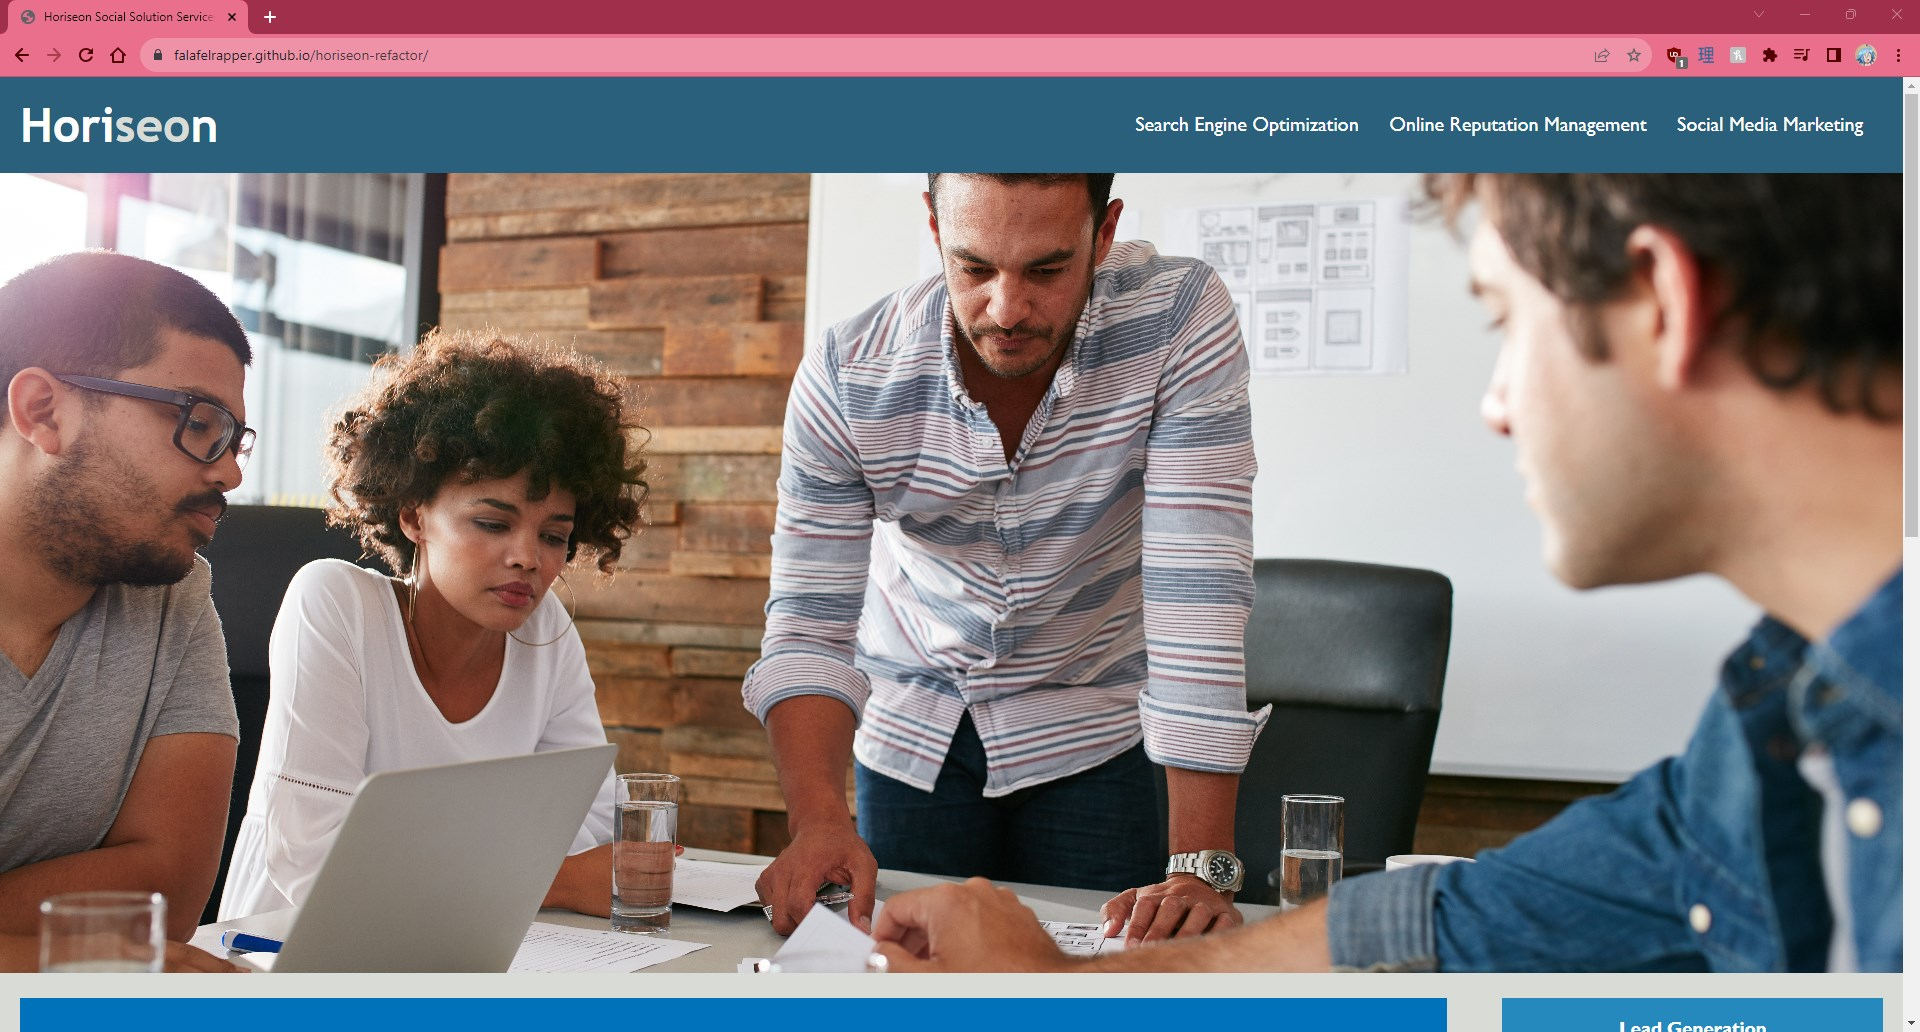
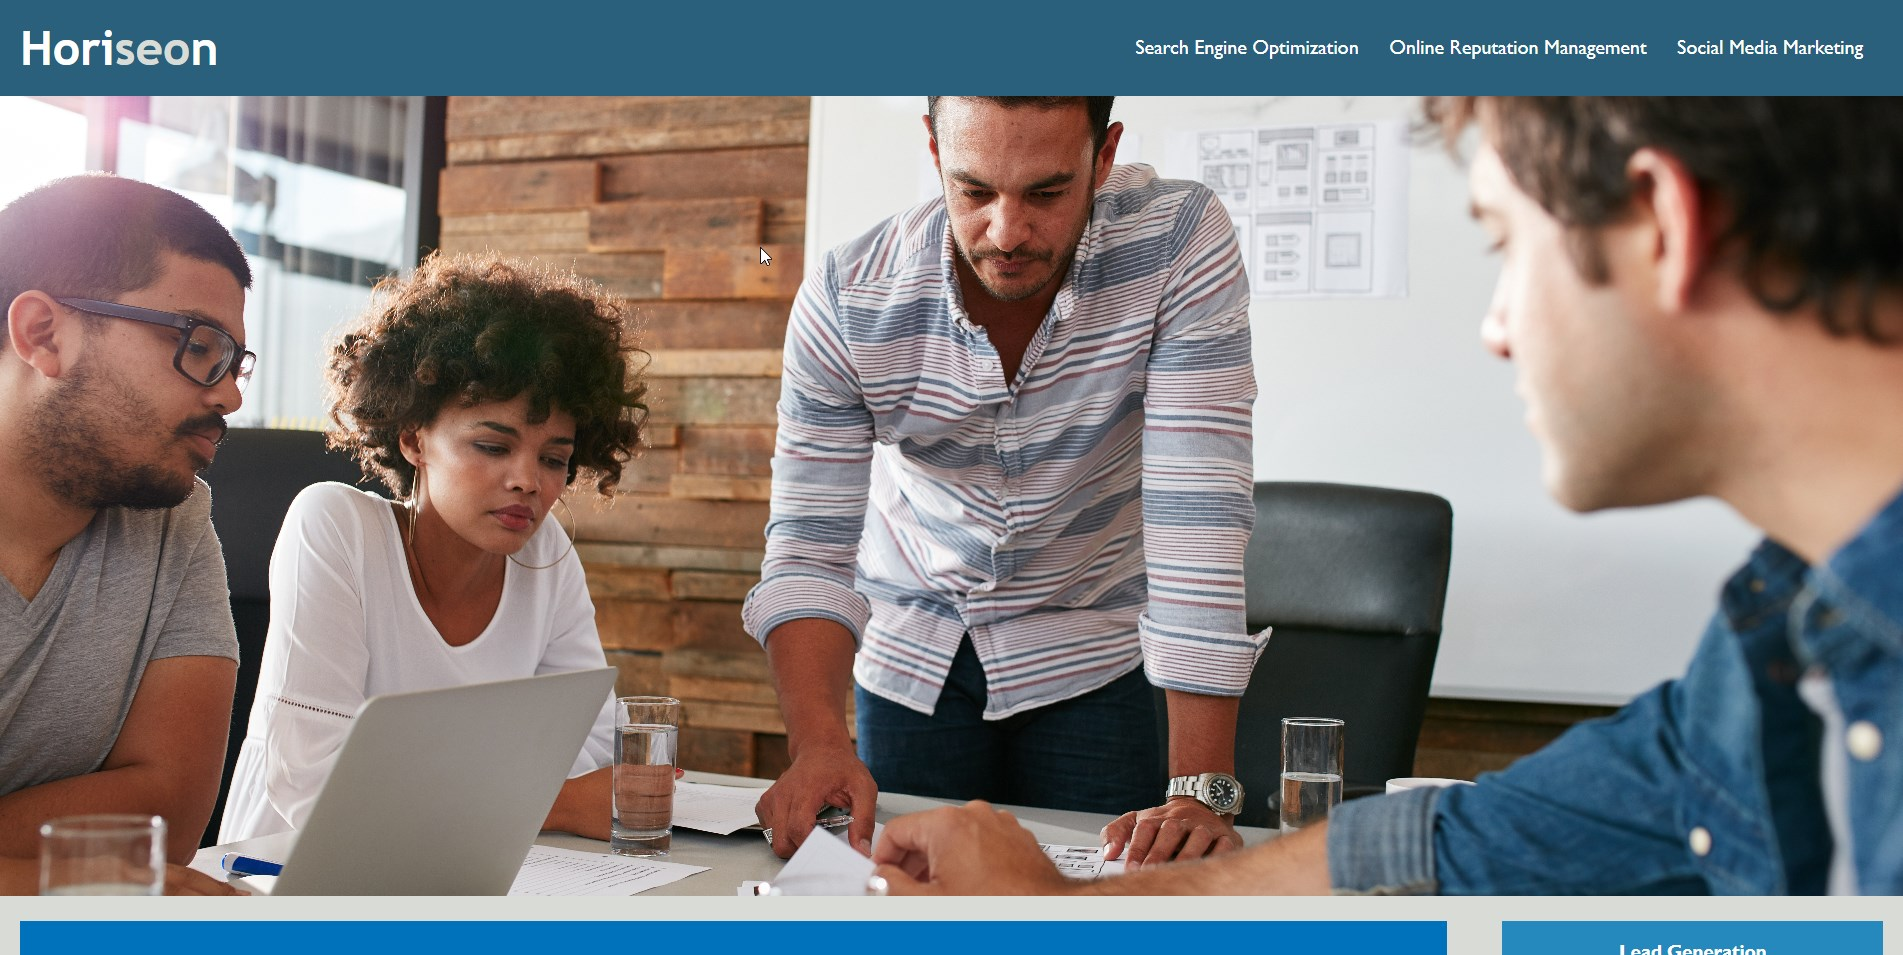
Added new images, added clickable work images, and more styles to text

diff --git a/assets/css/style.css b/assets/css/style.css
@@ -24,7 +24,7 @@ body{
 
 .header-image{
     background-image: url("../images/site-1.jpg");
-    height: 400px;
+    min-height: 400px;
     width: 100%;
     background-size: cover;
     background-position:center;
@@ -37,6 +37,7 @@ body{
 }
 
 .about-me h2{
+    font-size: 125%;
     flex: 1 0 20%;
     padding-right: 1rem;
     line-height: 150px;
@@ -55,14 +56,41 @@ body{
     justify-content: space-between;
 }
 
+.work-flex{
+    flex: 1 0 80%;
+}
+
+.flex-wrap{
+    display: flex;
+    flex-wrap: wrap;
+}
+
 .work h2{
+    font-size: 125%;
     flex: 1 0 20%;
     padding-right: 1rem;
-    line-height: 200px;
+    line-height: 150px;
     text-align: right;
     border-right: 2px solid var(--miku);
 }
 
+.work-card{
+    border-style: solid;
+    border-width: 3px;
+    margin: 20px;
+    color: var(--miku);
+    background-color: var(--maintext);
+}
+
+.work-card h3{
+    margin-left: 5px;
+}
+
+.work-card img{
+    max-width: 100%;
+    max-height: 100%;
+    
+}
 .nav-list a{
     margin: .5rem .5rem 0 0;
     display: inline;
@@ -80,6 +108,13 @@ body{
     transition: all 0.2s ease-in-out;
 }
 
+
+.work-card:hover{
+    font-size: 200%;
+    transition: all 0.2s ease-in-out;
+}
+
+
 .contact-me{
     margin: 1rem;
     display: flex;
@@ -88,20 +123,24 @@ body{
 
 .contact-me h2{
     flex: 1 0 20%;
+    font-size: 125%;
     padding-right: 1rem;
     line-height: 50px;
     text-align: right;
     border-right: 2px solid var(--miku);
 }
 
+.contact-me .contacts{
+    flex: 1 0 80%;
+}
 
 .contacts a{
     display: inline-block;
     text-align: right;
     color: var(--teal);
     font-size: 100%;
-    margin: 1rem 3.8rem;
-    flex: 1 0 80%;
+    margin: 1rem 0 0 10rem;
+
 }
 
 .contacts a:hover{
@@ -120,14 +159,44 @@ footer{
     background-color: var(--maintext);
 }
 
- /* @media screen and (max-width: 968px){
+ @media screen and (max-width: 968px){
     .about-me h2,
     .about-me-text{
-        flex: 1 0 100%;
+        text-align: center;
+        flex: 1 0 50%;
+        border-right: none;
+    }
+
+    .about-me h2{
+        margin: 0 10rem;
+        line-height: 1;
+        padding: 0;
+        border-bottom: 2px solid var(--miku);
+    }
+
+    .about-me{
+        flex-wrap: wrap;
+        justify-content: flex-start;
     }
 }
 
 
 @media screen and (max-width: 768px){
+    .about-me h2,
+    .about-me-text{
+        text-align: center;
+        flex: 1 0 90%;
+        border-right: none;
+    }
 
-} */
+    .about-me h2{
+        margin: 0 1rem;
+        line-height: 1;
+        padding: 0;
+        border-bottom: 2px solid var(--miku);
+    }
+    .about-me{
+        flex-wrap: wrap;
+        justify-content: flex-start;
+    }
+}

diff --git a/index.html b/index.html
@@ -30,9 +30,20 @@
         </section>
     </section>
     <section class="work">
-    <h2 id="work">Work</h2>
+        <h2 id="work">Work</h2>
+        <section class="flex-wrap">
+        <section class="work-card">
+            <a href="https://falafelrapper.github.io/horiseon-refactor/"><img  src="./assets/images/site-1.jpg"/></a>
+            <h3>First Site</h3>
+        </section>
+        <section class="work-card">
+            <a href="https://falafelrapper.github.io/prework-study-guide/"><img src="./assets/images/site-2.png"/></a>
+            <h3 href="https://falafelrapper.github.io/prework-study-guide/">Prework Study Guide</h3>
+        </section>
+        <section class="work-flex"></section>
     </section>
-    <nav class="contact-me">
+    </section>
+    <section class="contact-me">
             <h2 id="contact-me">Contact Me</h2>
             <ul class="contacts">
                 <a href="tel:3237173790">323.717.3790</a>
@@ -40,7 +51,7 @@
                 <a href="https://github.com/falafelrapper">Github</a>
                 <a href="https://linktr.ee/meishismile">Music</a>
             </ul>
-        </nav>
+    </section>
     </main>
 
     <footer>
